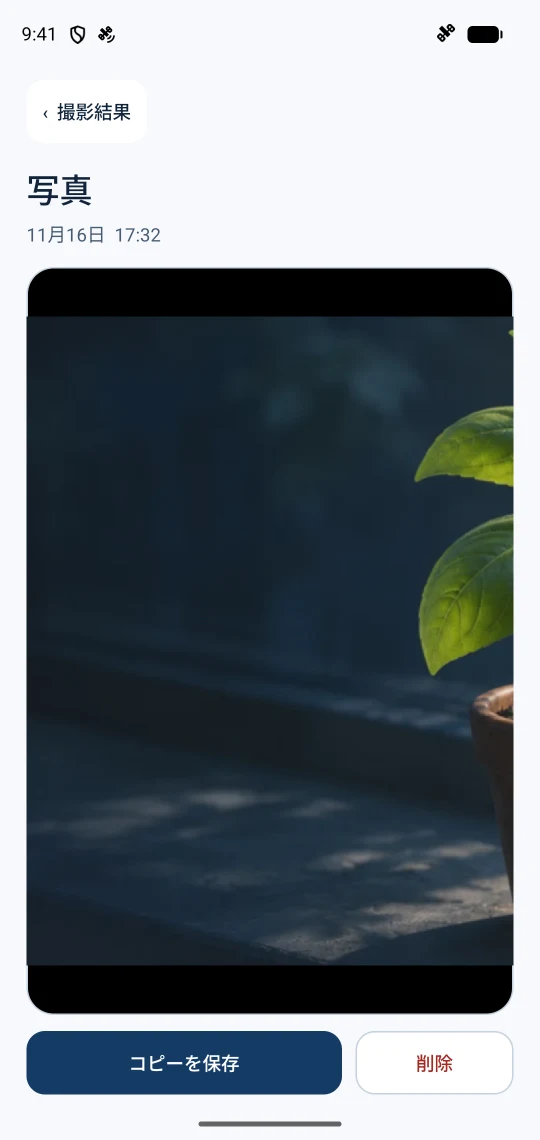
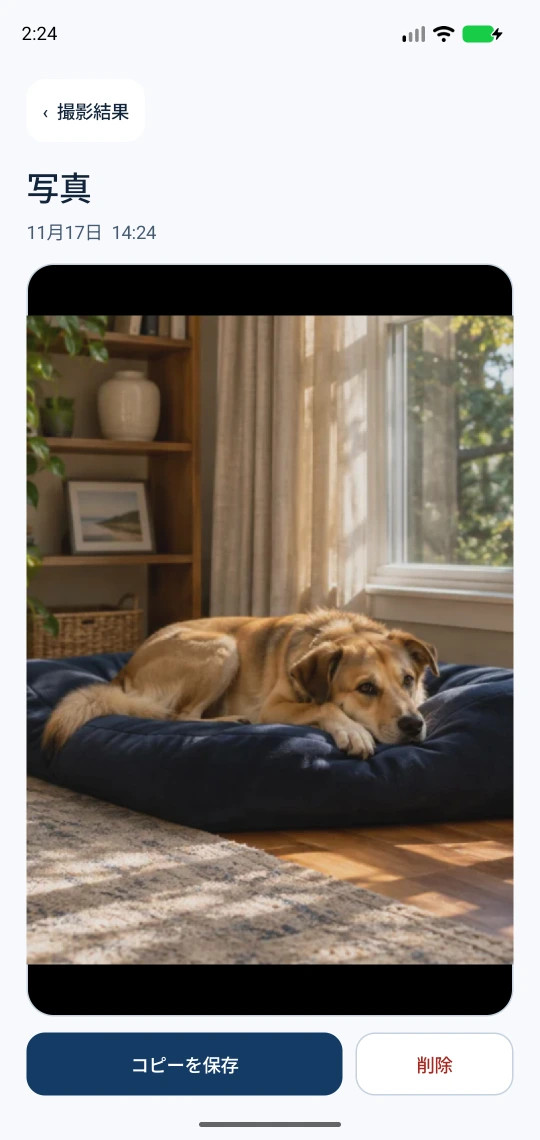
Show a well-framed pet photo in the Japanese capture example

diff --git a/ScheduleCam/overview/ja/index.html b/ScheduleCam/overview/ja/index.html
@@ -273,7 +273,7 @@
           <figcaption><strong>遠隔撮影の待機</strong><br>別端末のブラウザからの撮影指示を待ちます。</figcaption>
         </figure>
         <figure class="screen-figure">
-          <img src="./assets/capture.webp" width="540" height="1140" alt="日本語の撮影結果から写真を開き、コピーを保存できる画面" loading="lazy">
+          <img src="./assets/capture.webp?v=pet" width="540" height="1140" alt="撮影結果で、日が差す窓辺のベッドに横たわる犬の写真を表示した日本語画面" loading="lazy">
           <figcaption><strong>撮影結果を見る</strong><br>撮った写真を開き、必要に応じてファイルを書き出せます。</figcaption>
         </figure>
       </div>
